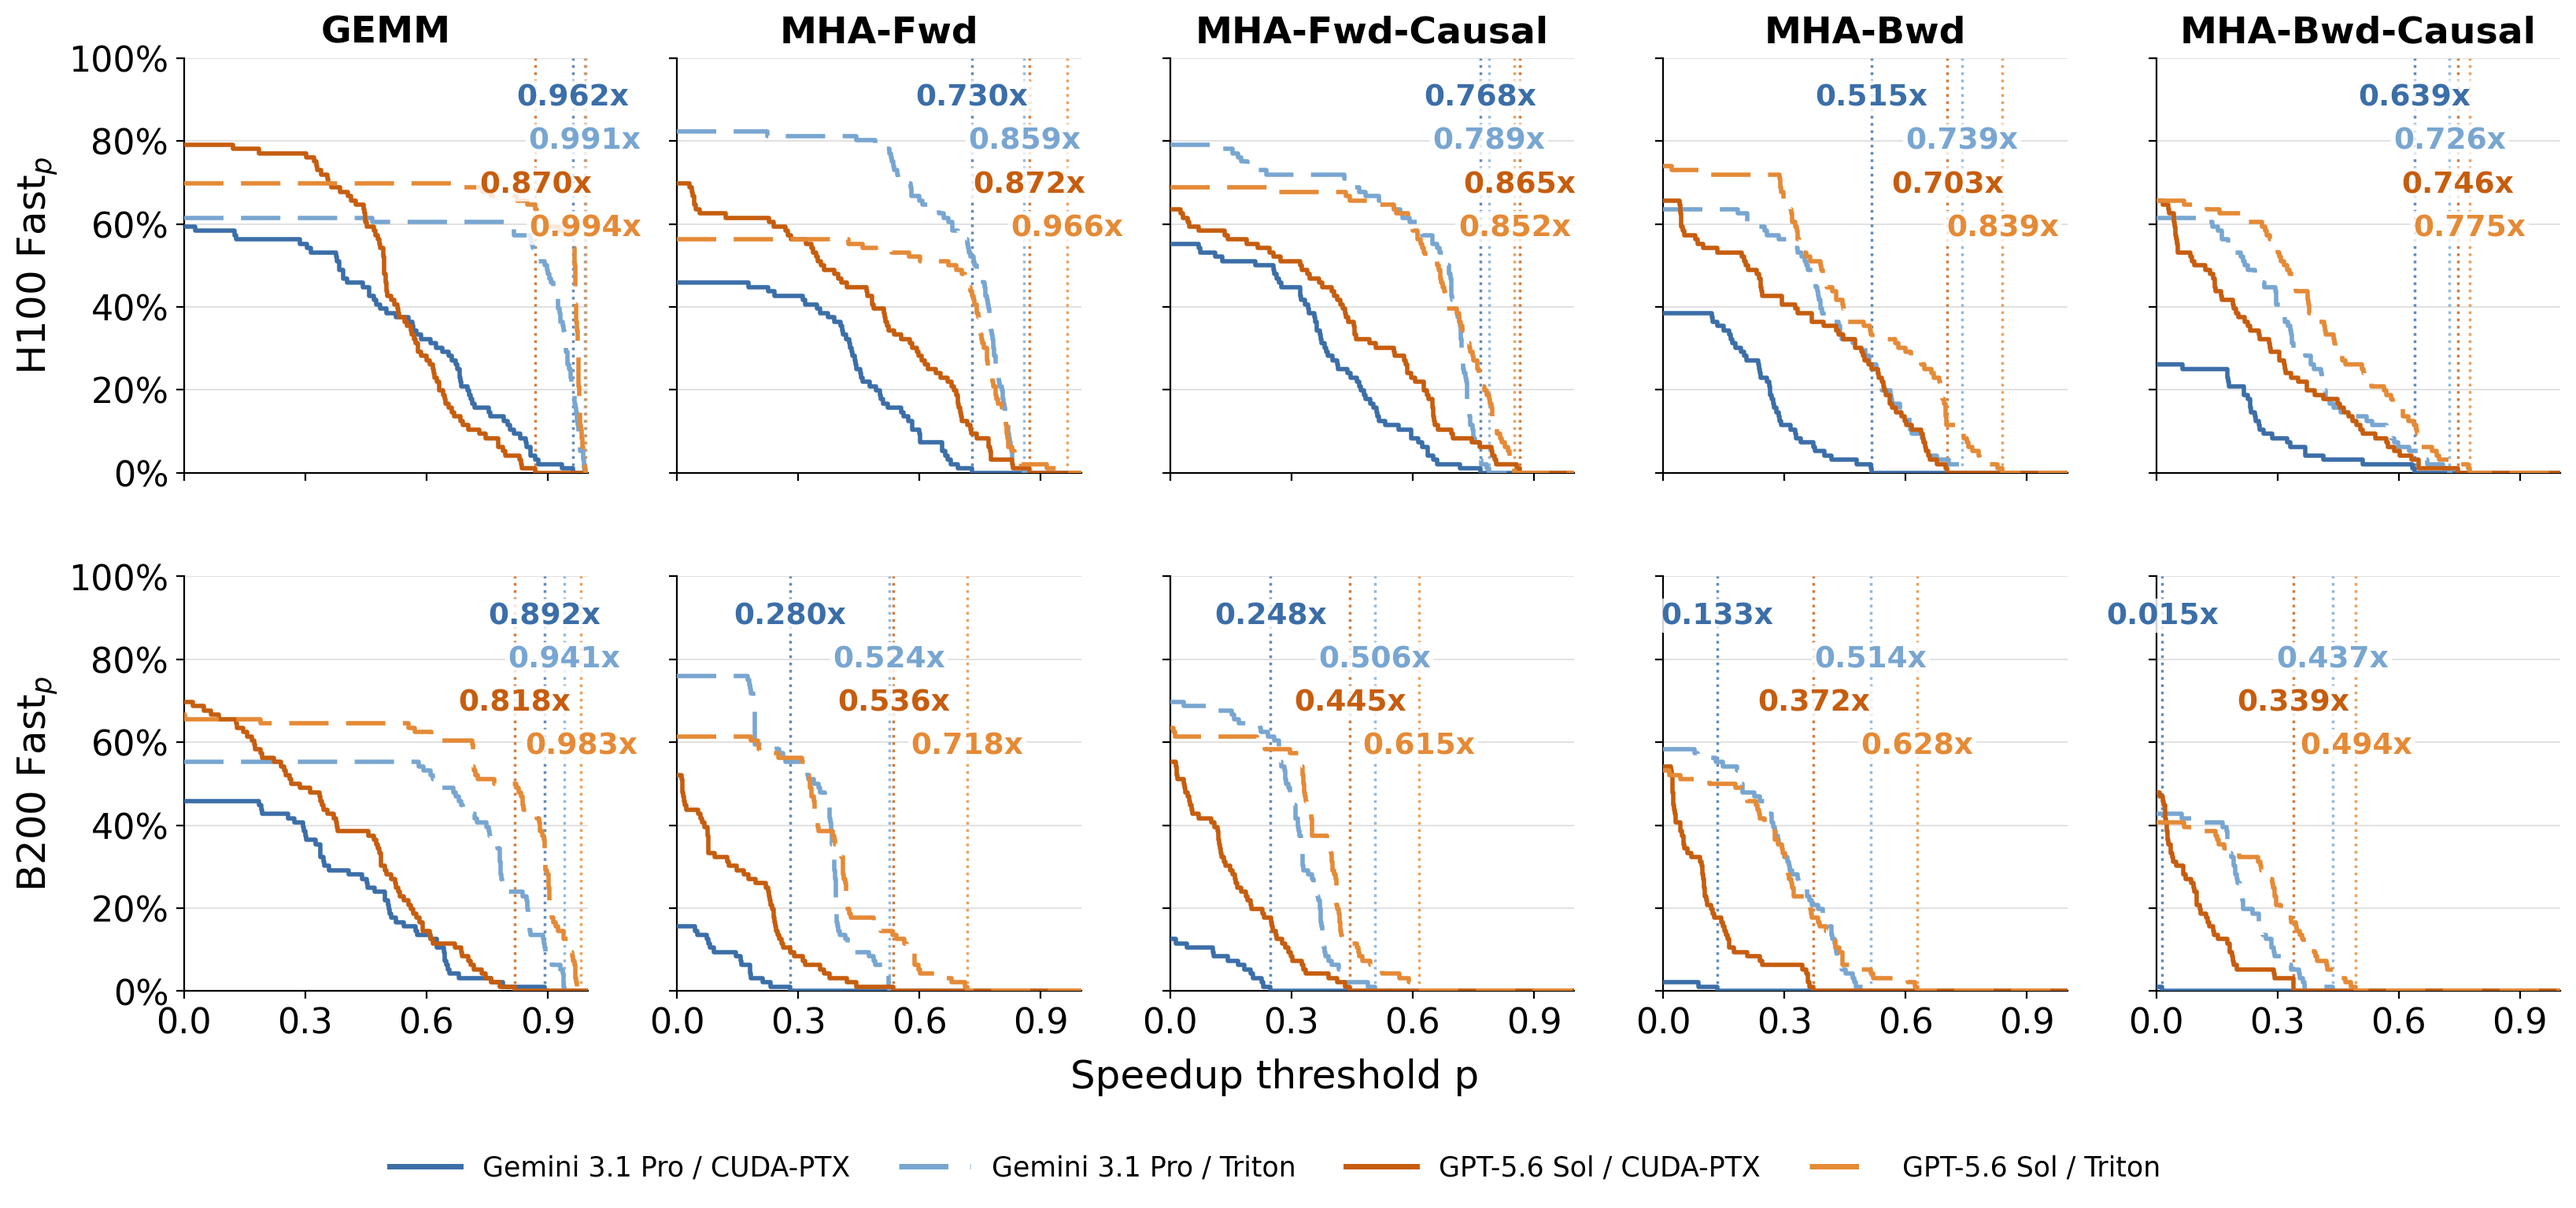
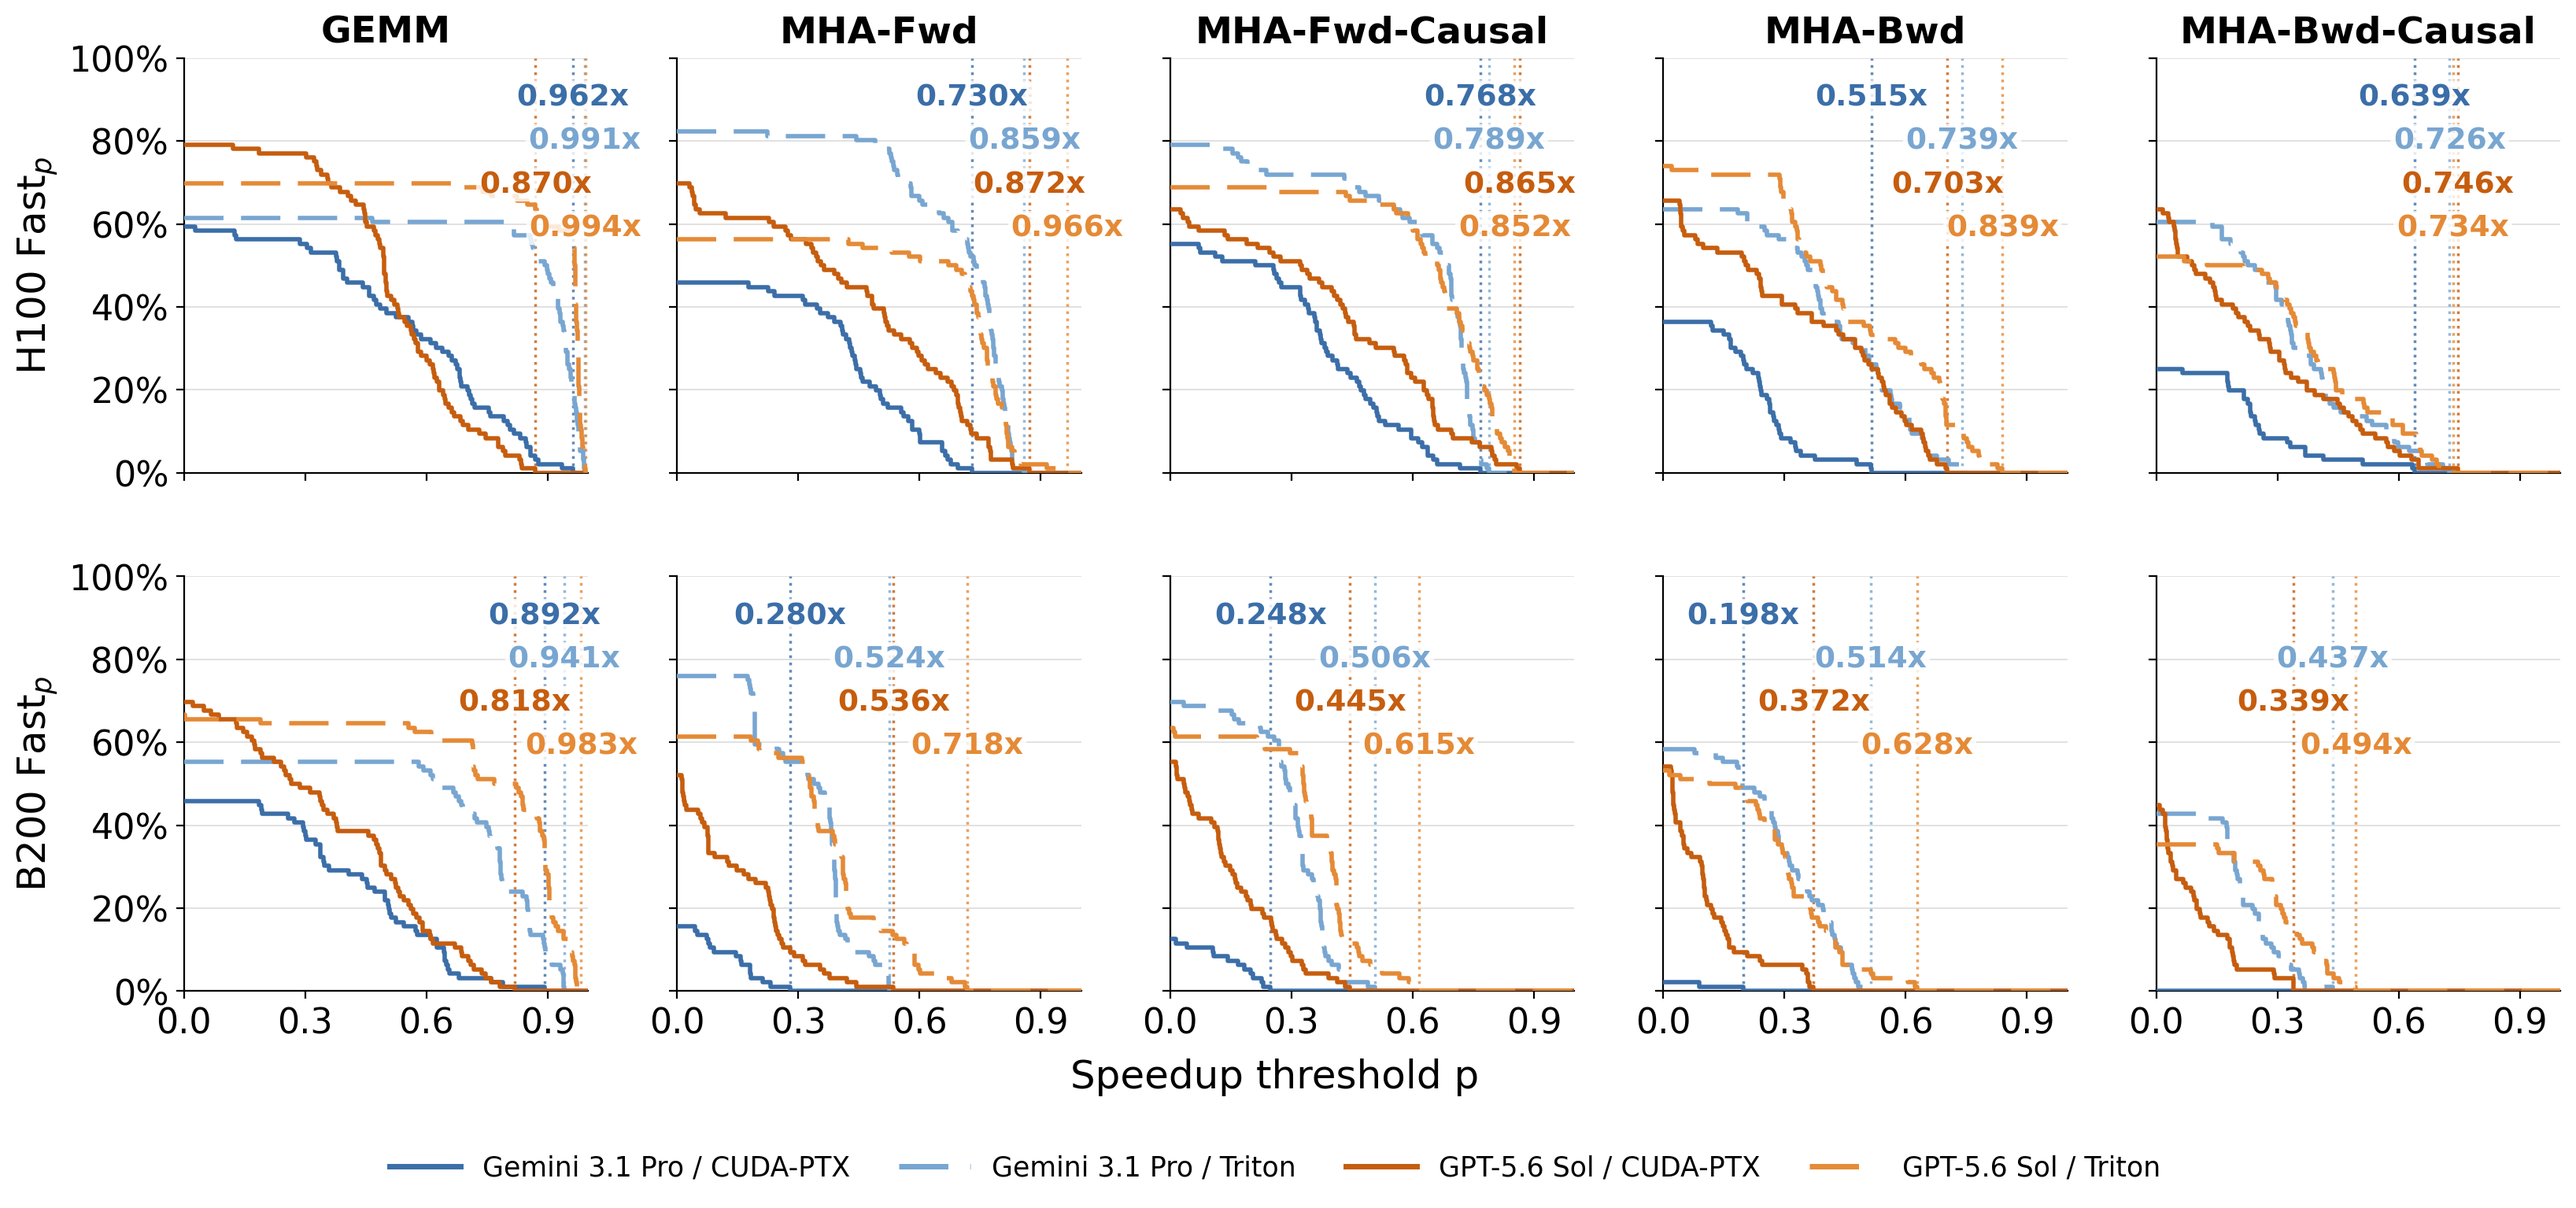
Update results

diff --git a/blog_md/ptxbench.md b/blog_md/ptxbench.md
@@ -14,10 +14,10 @@ PTX is the lowest-level GPU interface that CUDA programmers can explicitly contr
 
 # What does PTXBench ask?
 
-PTXBench asks how well current LLMs can reason about architecture-specific PTX on H100 and B200 GPUs, not merely whether they can emit a fast CUDA kernel. A model receives an architecture-specific knowledge pack, writes CUDA-PTX, and revises it over multiple turns using compilation, sanitization, correctness, and performance feedback. The benchmark separately checks whether the kernel is functionally correct, whether the requested instruction family actually executes at runtime, and whether the kernel is competitive with frontier libraries. This separation also points to the techniques that will matter next: execution-grounded repair, targeted post-training, runtime instruction verification, and much stronger testing infrastructure.
+PTXBench asks how well current LLMs can reason about architecture-specific PTX on H100 and B200 GPUs, not merely whether they can emit a fast CUDA kernel. A model receives an architecture-specific knowledge pack, writes CUDA-PTX, and revises it over multiple turns using compilation, sanitization, correctness, and performance feedback. The evaluation framework separately checks whether the kernel is functionally correct, whether the requested instruction family actually executes at runtime, and whether the kernel is competitive with frontier libraries. This separation also points to the techniques that will matter next: execution-grounded repair, targeted post-training, runtime instruction verification, and much stronger testing infrastructure.
 
 <div class="figure">
-  <img src="/assets/img/ptxbench-v2.drawio.png" alt="PTXBench workflow from benchmark setup through iterative CUDA-PTX generation, measurement, and repair-conditioned adaptation">
+  <img src="/assets/img/ptxbench-v2.drawio.png" alt="PTXBench workflow from evaluation setup through iterative CUDA-PTX generation, measurement, and repair-conditioned adaptation">
 </div>
 <br>
 
@@ -47,7 +47,7 @@ Specializing a model for CUDA-PTX may not require an enormous corpus. PTXBench a
 </div>
 <br>
 
-Cross-language transfer is more mixed (Figure 3). On the same five Hopper workloads, using the same checkpoint to generate Triton lowers turn-level correctness relative to the base model on every workload, yet raises the best correct speedup on the causal variants from 0.238x to 0.632x for MHA-Fwd-Causal and from 0.043x to 0.331x for MHA-Bwd-Causal. The SFT recipe can therefore improve peak performance substantially even while making correct Triton kernels less likely.
+Cross-language transfer is more mixed (Figure 3). On the same five Hopper workloads, using the same checkpoint to generate Triton lowers turn-level correctness relative to the base model on every workload, yet raises the best correct speedup on the causal variants from 0.238x to 0.632x for MHA-Fwd-Causal and from 0.037x to 0.331x for MHA-Bwd-Causal. The SFT recipe can therefore improve peak performance substantially even while making correct Triton kernels less likely.
 
 <div class="figure">
   <img src="/assets/img/qwen36_ptx_sft_base_triton_fast_at_p_prompt_range.png" alt="Triton transfer comparison between the PTX-SFT and base Qwen3.6-27B checkpoints on five Hopper workloads">
@@ -59,7 +59,7 @@ Cross-language transfer is more mixed (Figure 3). On the same five Hopper worklo
 
 # Takeaway 3: Abstractions still matter, but cracks are appearing
 
-Higher-level abstractions still provide a major advantage, especially on newer hardware, but that advantage is no longer universal. Under the same eight-turn refinement protocol with execution feedback, Triton reaches a higher best correct speedup than CUDA-PTX in 19 of 20 model–architecture–workload comparisons across Gemini 3.1 Pro and GPT-5.6 Sol. The sole exception is GPT-5.6 Sol on H100 causal MHA forward, where CUDA-PTX reaches 0.865x and Triton reaches 0.852x. The largest gaps appear in Blackwell attention: on B200 causal MHA backward, Triton raises Gemini's peak from 0.015x to 0.437x and GPT-5.6 Sol's from 0.339x to 0.494x. Triton's compiler-encoded optimizations and configuration tuning remain especially valuable on Blackwell, while the H100 exception shows that recent LLMs can already make direct CUDA-PTX outperform Triton in a selected setting.
+Higher-level abstractions still provide a major advantage, especially on newer hardware, but that advantage is no longer universal. Under the same eight-turn refinement protocol with execution feedback, Triton reaches a higher best correct speedup than CUDA-PTX in 18 of 20 model–architecture–workload comparisons across Gemini 3.1 Pro and GPT-5.6 Sol, including all 10 Blackwell comparisons. The two exceptions are GPT-5.6 Sol on H100 causal MHA forward, where CUDA-PTX reaches 0.865x versus Triton's 0.852x, and H100 causal MHA backward, where CUDA-PTX reaches 0.746x versus Triton's 0.734x. The largest gaps appear in Blackwell attention: on B200 causal MHA backward, Gemini produces no correct CUDA-PTX kernel but reaches 0.437x with Triton, while GPT-5.6 Sol improves from 0.339x to 0.494x. Triton's compiler-encoded optimizations and configuration tuning remain especially valuable on Blackwell, while the two H100 exceptions show that recent LLMs can already make direct CUDA-PTX outperform Triton in selected settings.
 
 <div class="figure">
   <img src="/assets/img/gemini31_gpt56_triton_cuda_h100_b200_fast_at_p.png" alt="Gemini 3.1 Pro and GPT-5.6 Sol comparison between Triton and CUDA-PTX on H100 and B200">
@@ -71,7 +71,7 @@ Higher-level abstractions still provide a major advantage, especially on newer h
 
 # Takeaway 4: Testing will become the bottleneck
 
-Finding kernels that are both correct and safe requires repeatedly running expensive performance measurements. PTXBench reduces this cost by leveraging the temporary locality of kernel evaluation requests for parallel agent loops. Specifically, PTXBench spawns a seperate host proccess to cache workload state such as input tensors, reference outputs, and reference latencies in the GPU memory. Reusing that state improves kernel evaluation throughput by 2.24x, as Figure 5 shows. Even with reuse, however, evaluation still leaves a headroom 2.72x to address in the future.
+Finding kernels that are both correct and safe requires repeatedly running expensive performance measurements. PTXBench reduces this cost by leveraging the temporary locality of kernel evaluation requests for parallel agent loops. Specifically, PTXBench runs a separate host process that caches workload state such as input tensors, reference outputs, and reference latencies in GPU memory. Reusing that state improves kernel evaluation throughput by 2.24x, as Figure 5 shows. Even with reuse, however, the cached path still takes 2.72x as long as kernel execution alone.
 
 <div class="figure" style="text-align: center;">
   <img src="/assets/img/baseline_cache_cumulative_runtime_large_font.png" alt="Cumulative profiling runtime with and without cached workload state" style="width: 50%; height: auto;">
